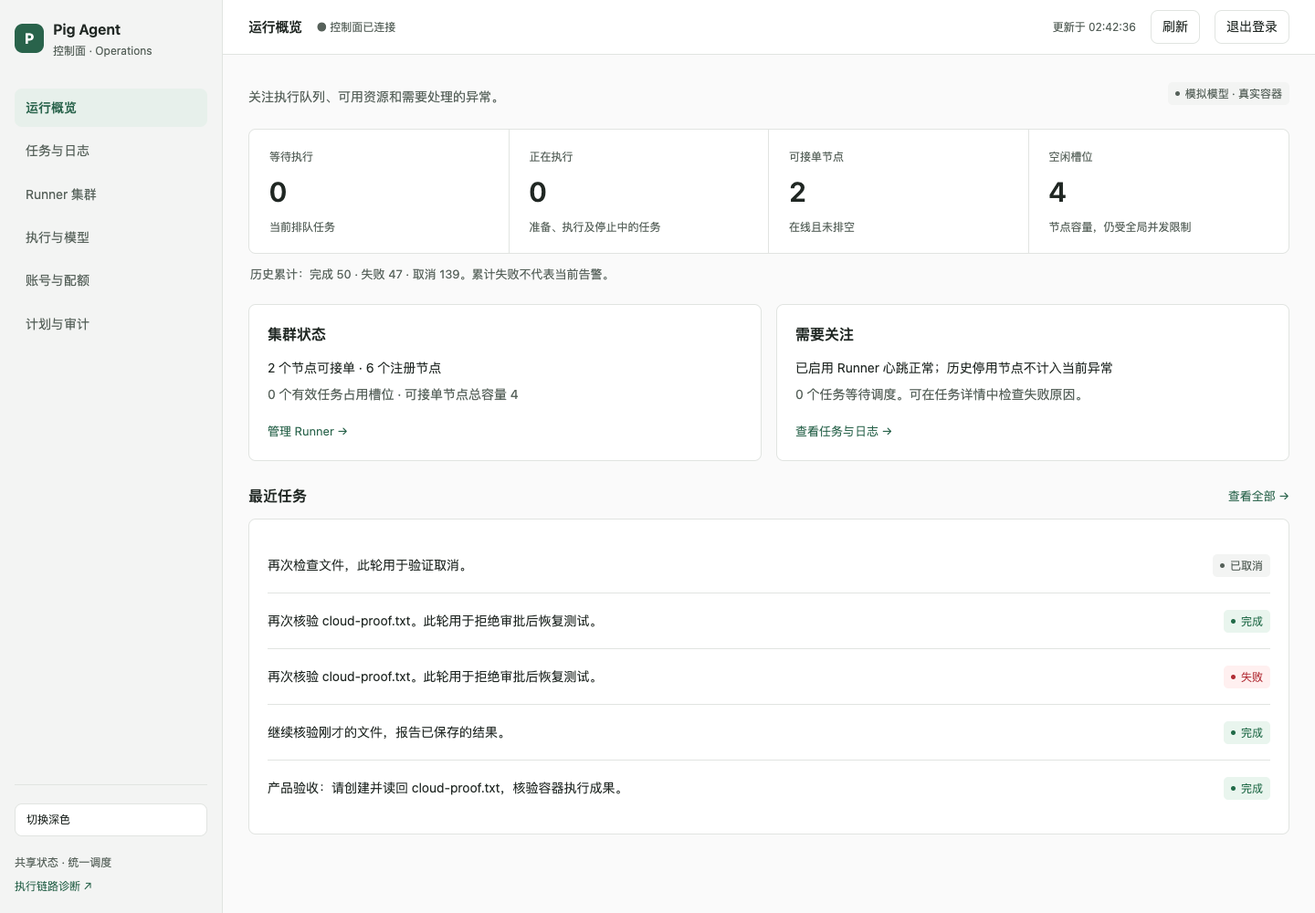
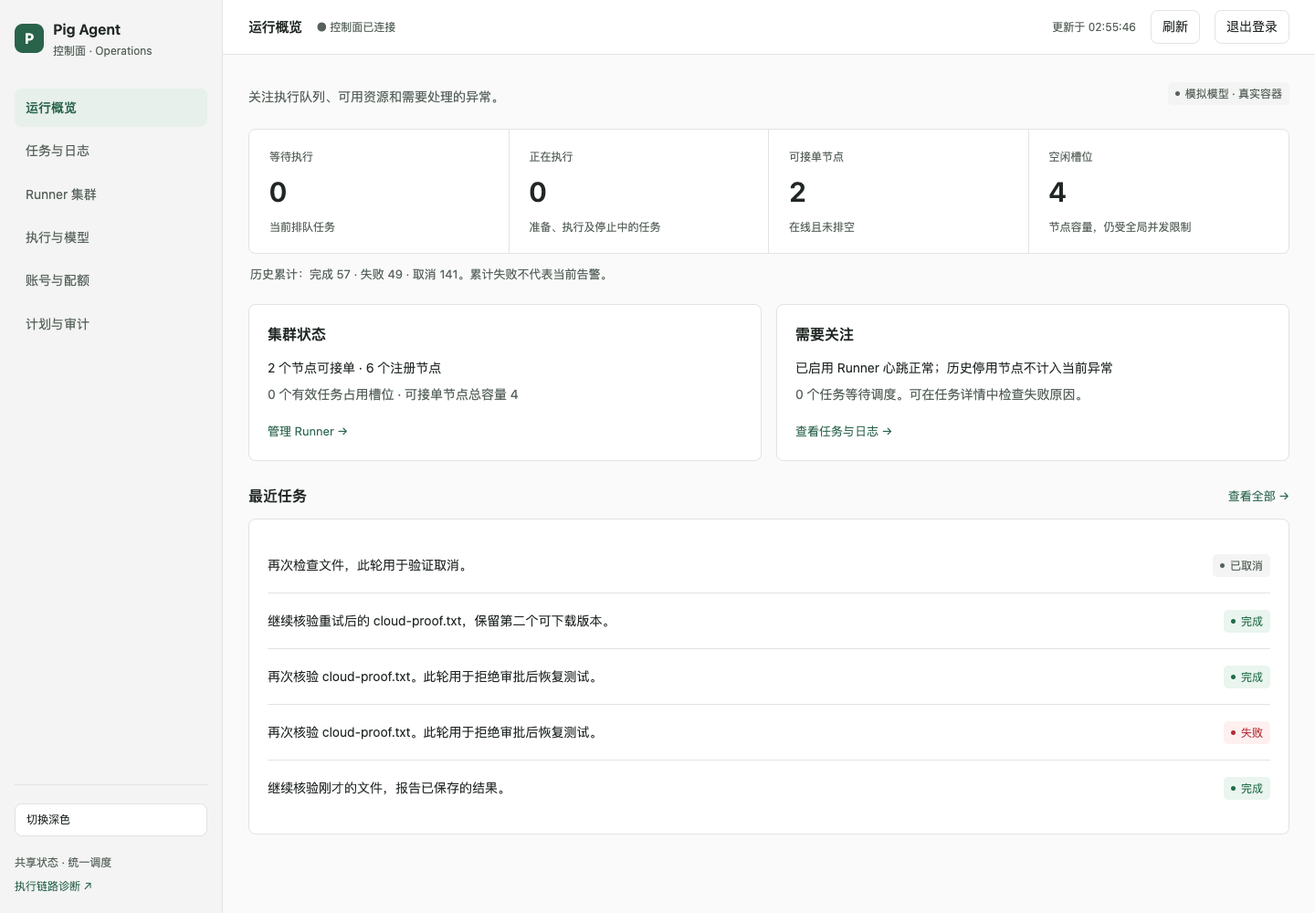
Make browser acceptance independent of historical task fixtures

diff --git a/docs/evidence/redesign-2026-09-22/index.html b/docs/evidence/redesign-2026-09-22/index.html
@@ -1,6 +1,6 @@
 <!doctype html><html lang="zh-CN"><meta charset="utf-8"><meta name="viewport" content="width=device-width,initial-scale=1"><title>Pig Agent · 重设计前后证据</title><style>
 *{box-sizing:border-box}body{margin:0;background:#f5f6f6;color:#202622;font:15px/1.65 system-ui,-apple-system,sans-serif}header,main{max-width:1680px;margin:auto;padding:28px}h1{margin:0 0 12px;font-size:25px}p{margin:8px 0;color:#55615a}a{color:#206148}nav{display:flex;gap:20px;flex-wrap:wrap;margin:18px 0}label{display:flex;gap:8px;align-items:center}select{font:inherit;border:1px solid #c9d0cc;border-radius:5px;padding:7px;background:white}.notice{border-left:3px solid #b57d24;background:#fff9e9;padding:12px 18px;margin-top:18px;font-size:13px}.pair{margin-bottom:34px;border:1px solid #d4dad6;border-radius:8px;overflow:hidden;background:white}.pair h2{font-size:18px;margin:0;padding:16px 20px;border-bottom:1px solid #e2e6e3}.pair .meta{font-size:12px;padding:8px 20px;color:#69766d}.compare{display:grid;grid-template-columns:1fr 1fr;gap:1px;background:#d4dad6}.shot{padding:12px;background:#eef0ee;min-width:0}.shot b{display:block;margin-bottom:8px;font-size:13px}.shot a{display:block}.shot img{display:block;width:100%;height:auto;background:white}.shot.mobile img{max-width:390px;margin:auto}.empty{padding:40px;text-align:center;background:white;border:1px solid #d4dad6}footer{padding:0 28px 30px;text-align:center;color:#69766d;font-size:12px}@media(max-width:760px){header,main{padding:18px}.compare{grid-template-columns:1fr}.pair h2{font-size:16px}}
-</style><header><h1>Pig Agent · 重设计前后证据</h1><p>逐张对照同尺寸截图。点击图片可打开原图；视觉对照与功能证据分别记录。</p><nav><a href="before/manifest.json">原版核心截图元信息</a><a href="after/workbench-matrix.json">改版后核心截图元信息</a><a href="after/settings-check.json">设置实际操作</a><a href="after/pages-flow.json">页面实际操作</a><a href="artifact-source.json">成果来源验证</a><a href="before/README.md">基线说明与边界</a></nav><div class="notice">任务列表、长 Markdown 等压力内容明确使用 UI 夹具；审批、成果、下载使用真实 mock 容器。基线 executing 在连续截图期间可能进入等待审批。旧管理端没有深色模式。page-* 基线仅表示旧页面内容，外层导航已经重设计。截图本身不证明可靠性或生产容量。</div><nav><label>尺寸<select id="size"><option value="1440x900">1440 × 900</option><option value="1280x800">1280 × 800</option><option value="390x844">390 × 844</option></select></label><label>主题<select id="theme"><option value="light">浅色</option><option value="dark">深色</option></select></label><label>页面<select id="state"><option value="all">全部可配对页面</option></select></label></nav></header><main id="pairs"></main><footer>生成时间 2026-09-21T18:44:01.716Z · 64 组实际存在的同尺寸图片，不用近似尺寸替代缺失证据。</footer><script>
+</style><header><h1>Pig Agent · 重设计前后证据</h1><p>逐张对照同尺寸截图。点击图片可打开原图；视觉对照与功能证据分别记录。</p><nav><a href="before/manifest.json">原版核心截图元信息</a><a href="after/workbench-matrix.json">改版后核心截图元信息</a><a href="after/settings-check.json">设置实际操作</a><a href="after/pages-flow.json">页面实际操作</a><a href="artifact-source.json">成果来源验证</a><a href="before/README.md">基线说明与边界</a></nav><div class="notice">任务列表、长 Markdown 等压力内容明确使用 UI 夹具；审批、成果、下载使用真实 mock 容器。基线 executing 在连续截图期间可能进入等待审批。旧管理端没有深色模式。page-* 基线仅表示旧页面内容，外层导航已经重设计。截图本身不证明可靠性或生产容量。</div><nav><label>尺寸<select id="size"><option value="1440x900">1440 × 900</option><option value="1280x800">1280 × 800</option><option value="390x844">390 × 844</option></select></label><label>主题<select id="theme"><option value="light">浅色</option><option value="dark">深色</option></select></label><label>页面<select id="state"><option value="all">全部可配对页面</option></select></label></nav></header><main id="pairs"></main><footer>生成时间 2026-09-21T18:57:11.905Z · 64 组实际存在的同尺寸图片，不用近似尺寸替代缺失证据。</footer><script>
 const pairs=[{"file":"admin-runners-1280x800-dark.png","afterPath":"admin/workers-1280x800-dark.png","state":"admin-runners","width":1280,"height":800,"theme":"dark","beforeKind":"real cluster; baseline admin has no dark support","afterKind":"Real isolated Runner cluster"},{"file":"admin-runners-1280x800-light.png","afterPath":"admin/workers-1280x800-light.png","state":"admin-runners","width":1280,"height":800,"theme":"light","beforeKind":"real cluster; baseline admin has no dark support","afterKind":"Real isolated Runner cluster"},{"file":"admin-runners-1440x900-dark.png","afterPath":"admin/workers-1440x900-dark.png","state":"admin-runners","width":1440,"height":900,"theme":"dark","beforeKind":"real cluster; baseline admin has no dark support","afterKind":"Real isolated Runner cluster"},{"file":"admin-runners-1440x900-light.png","afterPath":"admin/workers-1440x900-light.png","state":"admin-runners","width":1440,"height":900,"theme":"light","beforeKind":"real cluster; baseline admin has no dark support","afterKind":"Real isolated Runner cluster"},{"file":"admin-runners-390x844-dark.png","afterPath":"admin/workers-390x844-dark.png","state":"admin-runners","width":390,"height":844,"theme":"dark","beforeKind":"real cluster; baseline admin has no dark support","afterKind":"Real isolated Runner cluster"},{"file":"admin-runners-390x844-light.png","afterPath":"admin/workers-390x844-light.png","state":"admin-runners","width":390,"height":844,"theme":"light","beforeKind":"real cluster; baseline admin has no dark support","afterKind":"Real isolated Runner cluster"},{"file":"approval-1280x800-dark.png","afterPath":"after/approval-1280x800-dark.png","state":"approval","width":1280,"height":800,"theme":"dark","beforeKind":"real","afterKind":"Real mock container pending authorized write"},{"file":"approval-1280x800-light.png","afterPath":"after/approval-1280x800-light.png","state":"approval","width":1280,"height":800,"theme":"light","beforeKind":"real","afterKind":"Real mock container pending authorized write"},{"file":"approval-1440x900-dark.png","afterPath":"after/approval-1440x900-dark.png","state":"approval","width":1440,"height":900,"theme":"dark","beforeKind":"real","afterKind":"Real mock container pending authorized write"},{"file":"approval-1440x900-light.png","afterPath":"after/approval-1440x900-light.png","state":"approval","width":1440,"height":900,"theme":"light","beforeKind":"real","afterKind":"Real mock container pending authorized write"},{"file":"approval-390x844-dark.png","afterPath":"after/approval-390x844-dark.png","state":"approval","width":390,"height":844,"theme":"dark","beforeKind":"real","afterKind":"Real mock container pending authorized write"},{"file":"approval-390x844-light.png","afterPath":"after/approval-390x844-light.png","state":"approval","width":390,"height":844,"theme":"light","beforeKind":"real","afterKind":"Real mock container pending authorized write"},{"file":"empty-1280x800-dark.png","afterPath":"after/empty-1280x800-dark.png","state":"empty","width":1280,"height":800,"theme":"dark","beforeKind":"UI fixture task list, real empty session","afterKind":"Explicit UI fixture title/list; actual empty session"},{"file":"empty-1280x800-light.png","afterPath":"after/empty-1280x800-light.png","state":"empty","width":1280,"height":800,"theme":"light","beforeKind":"UI fixture task list, real empty session","afterKind":"Explicit UI fixture title/list; actual empty session"},{"file":"empty-1440x900-dark.png","afterPath":"after/empty-1440x900-dark.png","state":"empty","width":1440,"height":900,"theme":"dark","beforeKind":"UI fixture task list, real empty session","afterKind":"Explicit UI fixture title/list; actual empty session"},{"file":"empty-1440x900-light.png","afterPath":"after/empty-1440x900-light.png","state":"empty","width":1440,"height":900,"theme":"light","beforeKind":"UI fixture task list, real empty session","afterKind":"Explicit UI fixture title/list; actual empty session"},{"file":"empty-390x844-dark.png","afterPath":"after/empty-390x844-dark.png","state":"empty","width":390,"height":844,"theme":"dark","beforeKind":"UI fixture task list, real empty session","afterKind":"Explicit UI fixture title/list; actual empty session"},{"file":"empty-390x844-light.png","afterPath":"after/empty-390x844-light.png","state":"empty","width":390,"height":844,"theme":"light","beforeKind":"UI fixture task list, real empty session","afterKind":"Explicit UI fixture title/list; actual empty session"},{"file":"error-1280x800-dark.png","afterPath":"after/error-1280x800-dark.png","state":"error","width":1280,"height":800,"theme":"dark","beforeKind":"real browser network fault injection","afterKind":"Real browser network fault injection; last known task retained"},{"file":"error-1280x800-light.png","afterPath":"after/error-1280x800-light.png","state":"error","width":1280,"height":800,"theme":"light","beforeKind":"real browser network fault injection","afterKind":"Real browser network fault injection; last known task retained"},{"file":"error-1440x900-dark.png","afterPath":"after/error-1440x900-dark.png","state":"error","width":1440,"height":900,"theme":"dark","beforeKind":"real browser network fault injection","afterKind":"Real browser network fault injection; last known task retained"},{"file":"error-1440x900-light.png","afterPath":"after/error-1440x900-light.png","state":"error","width":1440,"height":900,"theme":"light","beforeKind":"real browser network fault injection","afterKind":"Real browser network fault injection; last known task retained"},{"file":"error-390x844-dark.png","afterPath":"after/error-390x844-dark.png","state":"error","width":390,"height":844,"theme":"dark","beforeKind":"real browser network fault injection","afterKind":"Real browser network fault injection; last known task retained"},{"file":"error-390x844-light.png","afterPath":"after/error-390x844-light.png","state":"error","width":390,"height":844,"theme":"light","beforeKind":"real browser network fault injection","afterKind":"Real browser network fault injection; last known task retained"},{"file":"executing-1280x800-dark.png","afterPath":"after/executing-1280x800-dark.png","state":"executing","width":1280,"height":800,"theme":"dark","beforeKind":"real mock container; may reach approval during viewport sweep","afterKind":"Explicit UI fixture running state; real container lifecycle proved separately by flow.json"},{"file":"executing-1280x800-light.png","afterPath":"after/executing-1280x800-light.png","state":"executing","width":1280,"height":800,"theme":"light","beforeKind":"real mock container; may reach approval during viewport sweep","afterKind":"Explicit UI fixture running state; real container lifecycle proved separately by flow.json"},{"file":"executing-1440x900-dark.png","afterPath":"after/executing-1440x900-dark.png","state":"executing","width":1440,"height":900,"theme":"dark","beforeKind":"real mock container; may reach approval during viewport sweep","afterKind":"Explicit UI fixture running state; real container lifecycle proved separately by flow.json"},{"file":"executing-1440x900-light.png","afterPath":"after/executing-1440x900-light.png","state":"executing","width":1440,"height":900,"theme":"light","beforeKind":"real mock container; may reach approval during viewport sweep","afterKind":"Explicit UI fixture running state; real container lifecycle proved separately by flow.json"},{"file":"executing-390x844-dark.png","afterPath":"after/executing-390x844-dark.png","state":"executing","width":390,"height":844,"theme":"dark","beforeKind":"real mock container; may reach approval during viewport sweep","afterKind":"Explicit UI fixture running state; real container lifecycle proved separately by flow.json"},{"file":"executing-390x844-light.png","afterPath":"after/executing-390x844-light.png","state":"executing","width":390,"height":844,"theme":"light","beforeKind":"real mock container; may reach approval during viewport sweep","afterKind":"Explicit UI fixture running state; real container lifecycle proved separately by flow.json"},{"file":"long-content-1280x800-dark.png","afterPath":"after/long-content-1280x800-dark.png","state":"long-content","width":1280,"height":800,"theme":"dark","beforeKind":"UI fixture","afterKind":"Explicit fixture long Chinese / Markdown / code / table"},{"file":"long-content-1280x800-light.png","afterPath":"after/long-content-1280x800-light.png","state":"long-content","width":1280,"height":800,"theme":"light","beforeKind":"UI fixture","afterKind":"Explicit fixture long Chinese / Markdown / code / table"},{"file":"long-content-1440x900-dark.png","afterPath":"after/long-content-1440x900-dark.png","state":"long-content","width":1440,"height":900,"theme":"dark","beforeKind":"UI fixture","afterKind":"Explicit fixture long Chinese / Markdown / code / table"},{"file":"long-content-1440x900-light.png","afterPath":"after/long-content-1440x900-light.png","state":"long-content","width":1440,"height":900,"theme":"light","beforeKind":"UI fixture","afterKind":"Explicit fixture long Chinese / Markdown / code / table"},{"file":"long-content-390x844-dark.png","afterPath":"after/long-content-390x844-dark.png","state":"long-content","width":390,"height":844,"theme":"dark","beforeKind":"UI fixture","afterKind":"Explicit fixture long Chinese / Markdown / code / table"},{"file":"long-content-390x844-light.png","afterPath":"after/long-content-390x844-light.png","state":"long-content","width":390,"height":844,"theme":"light","beforeKind":"UI fixture","afterKind":"Explicit fixture long Chinese / Markdown / code / table"},{"file":"page-automations-1440x900-light.png","afterPath":"after/page-automations-1440x900-light.png","state":"page-automations","width":1440,"height":900,"theme":"light","beforeKind":"Secondary page body before propagation; global shell already redesigned","afterKind":"Real isolated CRUD test records; no model execution"},{"file":"page-automations-390x844-light.png","afterPath":"after/page-automations-390x844-light.png","state":"page-automations","width":390,"height":844,"theme":"light","beforeKind":"Secondary page body before propagation; global shell already redesigned","afterKind":"Real isolated CRUD test records; no model execution"},{"file":"page-experts-1440x900-light.png","afterPath":"after/page-experts-1440x900-light.png","state":"page-experts","width":1440,"height":900,"theme":"light","beforeKind":"Secondary page body before propagation; global shell already redesigned","afterKind":"Real isolated CRUD test records; no model execution"},{"file":"page-experts-390x844-light.png","afterPath":"after/page-experts-390x844-light.png","state":"page-experts","width":390,"height":844,"theme":"light","beforeKind":"Secondary page body before propagation; global shell already redesigned","afterKind":"Real isolated CRUD test records; no model execution"},{"file":"page-memory-1440x900-light.png","afterPath":"after/page-memory-1440x900-light.png","state":"page-memory","width":1440,"height":900,"theme":"light","beforeKind":"Secondary page body before propagation; global shell already redesigned","afterKind":"Real isolated CRUD test records; no model execution"},{"file":"page-memory-390x844-light.png","afterPath":"after/page-memory-390x844-light.png","state":"page-memory","width":390,"height":844,"theme":"light","beforeKind":"Secondary page body before propagation; global shell already redesigned","afterKind":"Real isolated CRUD test records; no model execution"},{"file":"page-projects-1440x900-light.png","afterPath":"after/page-projects-1440x900-light.png","state":"page-projects","width":1440,"height":900,"theme":"light","beforeKind":"Secondary page body before propagation; global shell already redesigned","afterKind":"Real isolated CRUD test records; no model execution"},{"file":"page-projects-390x844-light.png","afterPath":"after/page-projects-390x844-light.png","state":"page-projects","width":390,"height":844,"theme":"light","beforeKind":"Secondary page body before propagation; global shell already redesigned","afterKind":"Real isolated CRUD test records; no model execution"},{"file":"page-search-1440x900-light.png","afterPath":"after/page-search-1440x900-light.png","state":"page-search","width":1440,"height":900,"theme":"light","beforeKind":"Secondary page body before propagation; global shell already redesigned","afterKind":"Real isolated CRUD test records; no model execution"},{"file":"page-search-390x844-light.png","afterPath":"after/page-search-390x844-light.png","state":"page-search","width":390,"height":844,"theme":"light","beforeKind":"Secondary page body before propagation; global shell already redesigned","afterKind":"Real isolated CRUD test records; no model execution"},{"file":"recovery-1280x800-dark.png","afterPath":"after/recovery-1280x800-dark.png","state":"recovery","width":1280,"height":800,"theme":"dark","beforeKind":"real","afterKind":"Same real task after connection restored"},{"file":"recovery-1280x800-light.png","afterPath":"after/recovery-1280x800-light.png","state":"recovery","width":1280,"height":800,"theme":"light","beforeKind":"real","afterKind":"Same real task after connection restored"},{"file":"recovery-1440x900-dark.png","afterPath":"after/recovery-1440x900-dark.png","state":"recovery","width":1440,"height":900,"theme":"dark","beforeKind":"real","afterKind":"Same real task after connection restored"},{"file":"recovery-1440x900-light.png","afterPath":"after/recovery-1440x900-light.png","state":"recovery","width":1440,"height":900,"theme":"light","beforeKind":"real","afterKind":"Same real task after connection restored"},{"file":"recovery-390x844-dark.png","afterPath":"after/recovery-390x844-dark.png","state":"recovery","width":390,"height":844,"theme":"dark","beforeKind":"real","afterKind":"Same real task after connection restored"},{"file":"recovery-390x844-light.png","afterPath":"after/recovery-390x844-light.png","state":"recovery","width":390,"height":844,"theme":"light","beforeKind":"real","afterKind":"Same real task after connection restored"},{"file":"result-1280x800-dark.png","afterPath":"after/result-1280x800-dark.png","state":"result","width":1280,"height":800,"theme":"dark","beforeKind":"real","afterKind":"Real authorized remote artifact exact-content download"},{"file":"result-1280x800-light.png","afterPath":"after/result-1280x800-light.png","state":"result","width":1280,"height":800,"theme":"light","beforeKind":"real","afterKind":"Real authorized remote artifact exact-content download"},{"file":"result-1440x900-dark.png","afterPath":"after/result-1440x900-dark.png","state":"result","width":1440,"height":900,"theme":"dark","beforeKind":"real","afterKind":"Real authorized remote artifact exact-content download"},{"file":"result-1440x900-light.png","afterPath":"after/result-1440x900-light.png","state":"result","width":1440,"height":900,"theme":"light","beforeKind":"real","afterKind":"Real authorized remote artifact exact-content download"},{"file":"result-390x844-dark.png","afterPath":"after/result-390x844-dark.png","state":"result","width":390,"height":844,"theme":"dark","beforeKind":"real","afterKind":"Real authorized remote artifact exact-content download"},{"file":"result-390x844-light.png","afterPath":"after/result-390x844-light.png","state":"result","width":390,"height":844,"theme":"light","beforeKind":"real","afterKind":"Real authorized remote artifact exact-content download"},{"file":"settings-1280x800-dark.png","afterPath":"after/settings-1280x800-dark.png","state":"settings","width":1280,"height":800,"theme":"dark","beforeKind":"real","afterKind":"Real saved settings and connection validation"},{"file":"settings-1280x800-light.png","afterPath":"after/settings-1280x800-light.png","state":"settings","width":1280,"height":800,"theme":"light","beforeKind":"real","afterKind":"Real saved settings and connection validation"},{"file":"settings-1440x900-dark.png","afterPath":"after/settings-1440x900-dark.png","state":"settings","width":1440,"height":900,"theme":"dark","beforeKind":"real","afterKind":"Real saved settings and connection validation"},{"file":"settings-1440x900-light.png","afterPath":"after/settings-1440x900-light.png","state":"settings","width":1440,"height":900,"theme":"light","beforeKind":"real","afterKind":"Real saved settings and connection validation"},{"file":"settings-390x844-dark.png","afterPath":"after/settings-390x844-dark.png","state":"settings","width":390,"height":844,"theme":"dark","beforeKind":"real","afterKind":"Real saved settings and connection validation"},{"file":"settings-390x844-light.png","afterPath":"after/settings-390x844-light.png","state":"settings","width":390,"height":844,"theme":"light","beforeKind":"real","afterKind":"Real saved settings and connection validation"}],labels={"empty":"新任务空态","executing":"执行过程","approval":"等待审批","result":"完成与成果","error":"错误状态","recovery":"恢复后","settings":"设置","admin-runners":"Runner 管理","long-content":"长内容压力夹具","page-projects":"项目","page-experts":"专家","page-automations":"自动化","page-memory":"记忆","page-search":"搜索"};const escape=s=>String(s).replace(/[&<>"']/g,c=>({'&':'&amp;','<':'&lt;','>':'&gt;','"':'&quot;',"'":'&#39;'}[c]));
 for(const key of [...new Set(pairs.map(p=>p.state))]){const o=document.createElement('option');o.value=key;o.textContent=labels[key]||key;document.querySelector('#state').append(o)}
 function render(){const size=document.querySelector('#size').value,theme=document.querySelector('#theme').value,state=document.querySelector('#state').value;const selected=pairs.filter(p=>p.width+'x'+p.height===size&&p.theme===theme&&(state==='all'||p.state===state));document.querySelector('#pairs').innerHTML=selected.length?selected.map(p=>'<section class="pair"><h2>'+escape(labels[p.state]||p.state)+' · '+p.width+' × '+p.height+' · '+(p.theme==='dark'?'深色':'浅色')+'</h2><div class="meta">基线类型：'+escape(p.beforeKind)+'<br>改版后类型：'+escape(p.afterKind)+'</div><div class="compare">'+['before','after'].map(side=>'<div class="shot '+(p.width===390?'mobile':'')+'"><b>'+(side==='before'?'改版前':'改版后')+'</b><a href="'+escape(side==='after'?p.afterPath:'before/'+p.file)+'" target="_blank"><img loading="lazy" alt="'+escape(p.state+' '+side)+'" src="'+escape(side==='after'?p.afterPath:'before/'+p.file)+'"></a></div>').join('')+'</div></section>').join(''):'<div class="empty">这个筛选条件尚无完整配对截图。重新生成索引前不会把缺失证据当作已完成。</div>'}for(const select of document.querySelectorAll('select'))select.addEventListener('change',render);render();

diff --git a/docs/redesign-acceptance-2026-09-22.md b/docs/redesign-acceptance-2026-09-22.md
@@ -86,9 +86,13 @@ F1 的持久化边界和排障说明见 [完成交付文档](completion-delivery
 | `pnpm desktop:smoke` | 首次启动和重启通过；覆盖加密凭据、认证隔离、流式响应、任务去重与原生执行适配。 |
 | 新版 8797 实际浏览器 | 导航可用、无页面运行时错误；升级前后设置哈希保持，9个用户任务保留。 |
 | 核心真实容器与各浏览器专项 | 见上述归档 JSON，均有真实操作记录。 |
-| 最终组合 `product:smoke` | 最终完整通过，退出码0；真实链路、设置/导航/断线、创建竞态、运行跟随、上下文6项、F2来源/版本/下载/导入、管理端16项均通过。最后管理端时间戳为2026-09-21T18:42:39.638Z。 |
+| 最终组合 `product:smoke` | 全新临时数据目录的最终完整运行通过，退出码0；真实链路8项、设置/导航/断线、创建竞态、运行跟随、上下文6项、F2来源/版本/下载/导入、管理端16项均通过。最后管理端时间戳为2026-09-21T18:55:50.342Z。 |
 
 本轮记录与上一轮测试数分开，不引用旧 612 个测试作为本轮结果。
+
+CI 首次独立环境运行曾失败，原因是测试前置数据依赖，不是降低产品断言即可通过的问题：显式重试沿用既有语义建立恢复会话，旧流程只在该会话产生1次成功运行；此前本地反复运行留下的旧会话恰好有2次成功版本，F2脚本误选它而掩盖缺失前置条件。修正后每次组合测试使用新的 `mkdtemp` 数据目录，经 `PIG_TEST_DATA_DIR` 传递；F2固定读取本轮 `flow.json` 的 sessionId，并从控制面权威会话历史查找成功运行。真实流程在重试成功后增加一次跟进与审批，确实产生两个成功版本再取消。原有双版本、下载内容和本机同名隔离断言保留，并增加恢复会话第二版本检查；本次全新数据完整运行已通过。归档中 `final-product/flow.json` 的 sessionId 与 `artifact-source.json` 的 session 一致。
+
+该修正仅涉及验收脚本与数据隔离，生产实现没有因此更改，单元测试数量仍为632。CI正在以修正后的提交重新运行；本地通过不替代尚未完成的CI状态。
 
 尚未声称或实现的保证：exactly-once 执行、单机持久 outbox 的跨主机复制、生产容量、长时间控制面不可用后的无条件结果接纳。控制面、数据库和 Docker 主机的生产冗余仍需独立部署设计。本轮为本机真实 Chrome 和 Electron 构建环境；没有额外宣称 Safari、Firefox、Windows、Linux 桌面或真实移动设备验证。
 

diff --git a/docs/redesign-worklog.md b/docs/redesign-worklog.md
@@ -76,9 +76,11 @@
 
 10. 最终组合浏览器发现重复选择同一成果版本清空文件列表 → 同值选择不再触发状态清空；来源、版本、下载和导入实际路径重新通过。
 
+11. PR首次独立CI暴露了测试数据依赖：显式重试建立的恢复会话只有1次成功运行，但F2需要两个版本；旧本地脚本误选其他已有双版本会话。组合测试改为每次fresh临时目录，F2固定本轮flow的sessionId并查询控制面成功历史，真实流程在重试后额外跟进/审批以建立第二成功版本；原断言不减。全新数据完整组合运行通过，真实链路增至8项。生产代码不因这次夹具修复变更；CI重跑状态另行核对。
+
 ## 验证边界、剩余工作和恢复
 
-- 浏览器/接口/容器证据已归档；本轮93文件632测试、控制面/Runner类型检查、桌面构建及首次/重启冒烟通过。最终组合冒烟在集群DNS与旧定位器修正后完整通过；桌面最新源码首次/重启冒烟再次通过。未使用上一轮测试数量替代。
+- 浏览器/接口/容器证据已归档；本轮93文件632测试、控制面/Runner类型检查、桌面构建及首次/重启冒烟通过。最终组合冒烟在集群DNS、旧定位器和独立CI暴露的数据前置条件修正后，以全新临时数据目录完整通过；桌面最新源码首次/重启冒烟再次通过。未使用上一轮测试数量替代。
 - 尚不提供 exactly-once、单机 outbox 跨主机复制、生产容量或长期失联后无条件接纳完成结果。这些边界见 [完成交付与代次](completion-delivery.md)。
 - 已有 CSS/JS bundle 大小警告应如实保留；没有测量性能收益，也不声称已解决打包体积问题。
 - 如运行中断：先确认独立8892集群健康，使用 `node scripts/redesign/start.mjs` 恢复8799；核对设置中隔离工作区与mock控制面地址，再从相应JSON对应脚本继续。不要将故障注入脚本指向8797/8890用户平台。

diff --git a/docs/evidence/redesign-2026-09-22/README.md b/docs/evidence/redesign-2026-09-22/README.md
@@ -6,7 +6,7 @@
 - 核心尺寸为 1440×900、1280×800、390×844，浅/深双主题。
 - `before/manifest.json` 与 `after/workbench-matrix.json` 分别说明截图来源；UI 夹具不作为真实执行证明。
 - `after/settings-check.json`、`after/pages-flow.json`、`after/session-context.json` 和 `admin/evidence.json` 记录真实浏览器操作。
-- `final-product/` 仅包含最后一次完整组合冒烟的明确允许清单；管理端16项在2026-09-21T18:42:39.638Z完成。旧flow-debug等中间失败截图不在归档中。
+- `final-product/` 仅包含最后一次全新临时数据目录组合冒烟的明确允许清单；管理端16项在2026-09-21T18:55:50.342Z完成。旧flow-debug等中间失败截图不在归档中。本轮flow与F2的sessionId一致；真实重试恢复后额外跟进，建立两个成功版本，保留原双版本断言。
 - `real-flow/flow.json` 记录真实 mock 容器的创建、审批、下载、跟进、拒绝重试和取消。
 - `cluster/control.json` 是双控制面14组协议场景，`cluster/runners.json` 是真实2×2节点故障与资源清理测试；模拟节点/时间戳注入与真实容器分开标注。
 - `reliability/` 是完成交付故障注入与多控制面并发/代次证据。未归档 Runner outbox 或任何秘密配置。
